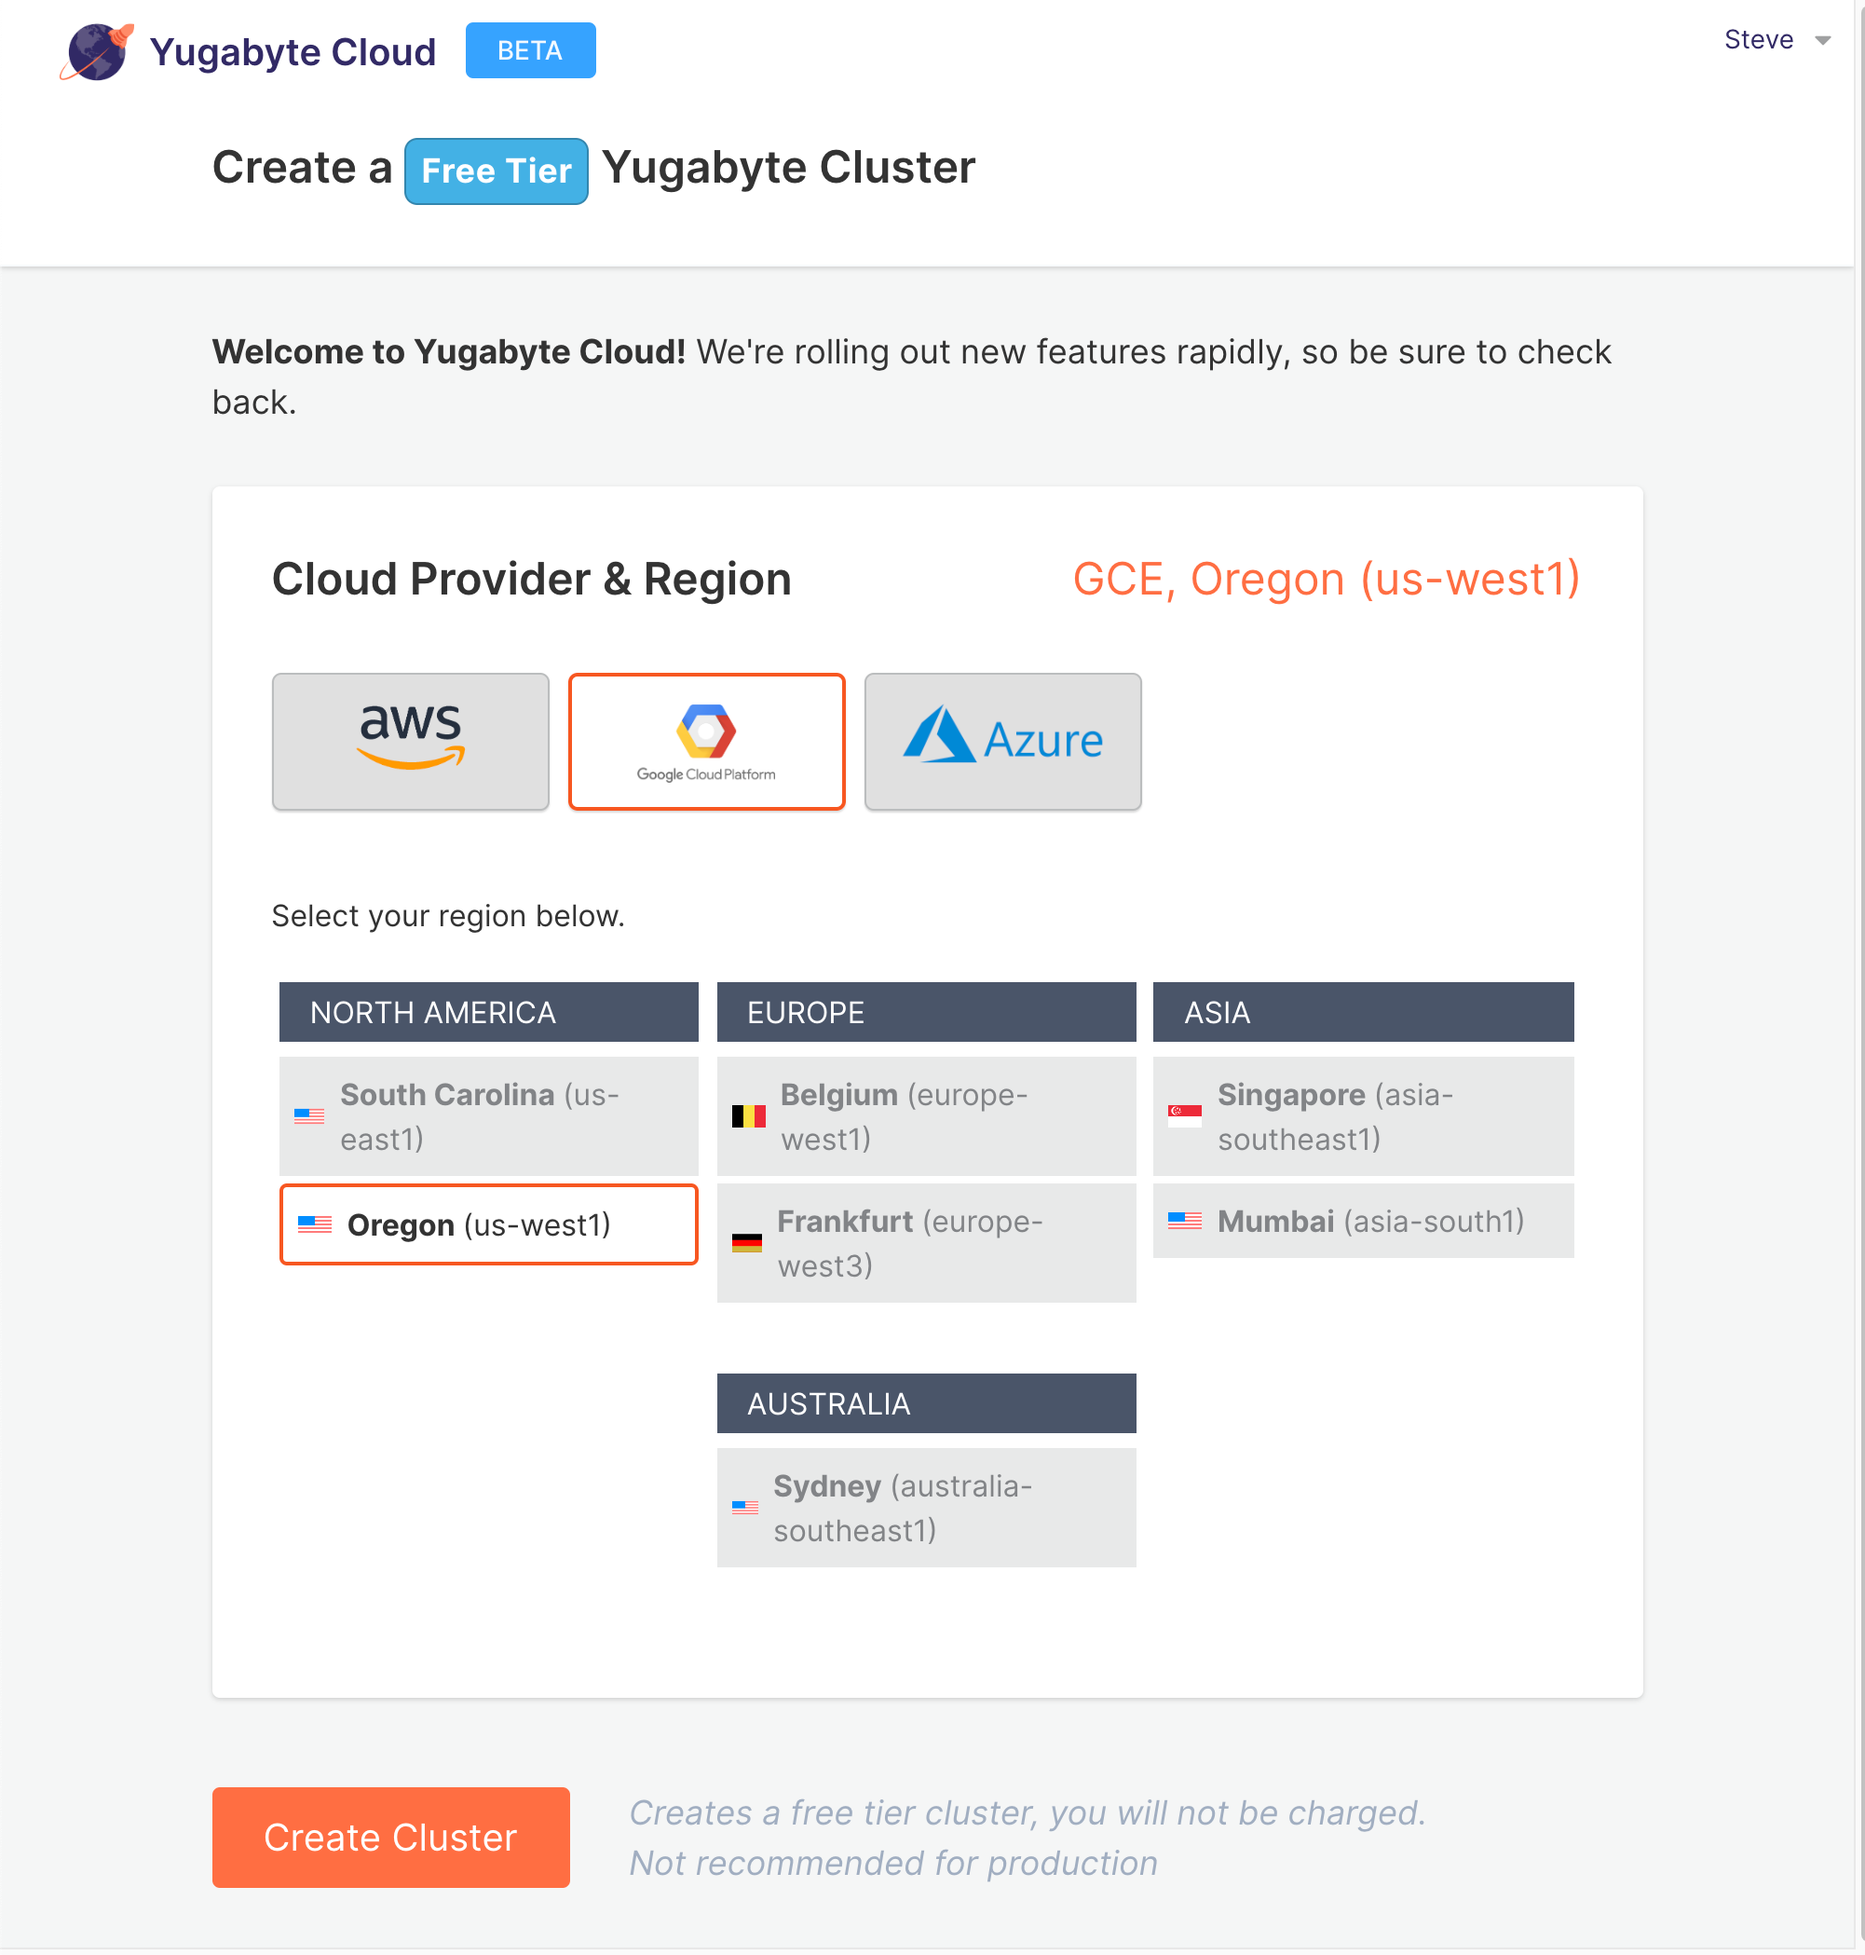
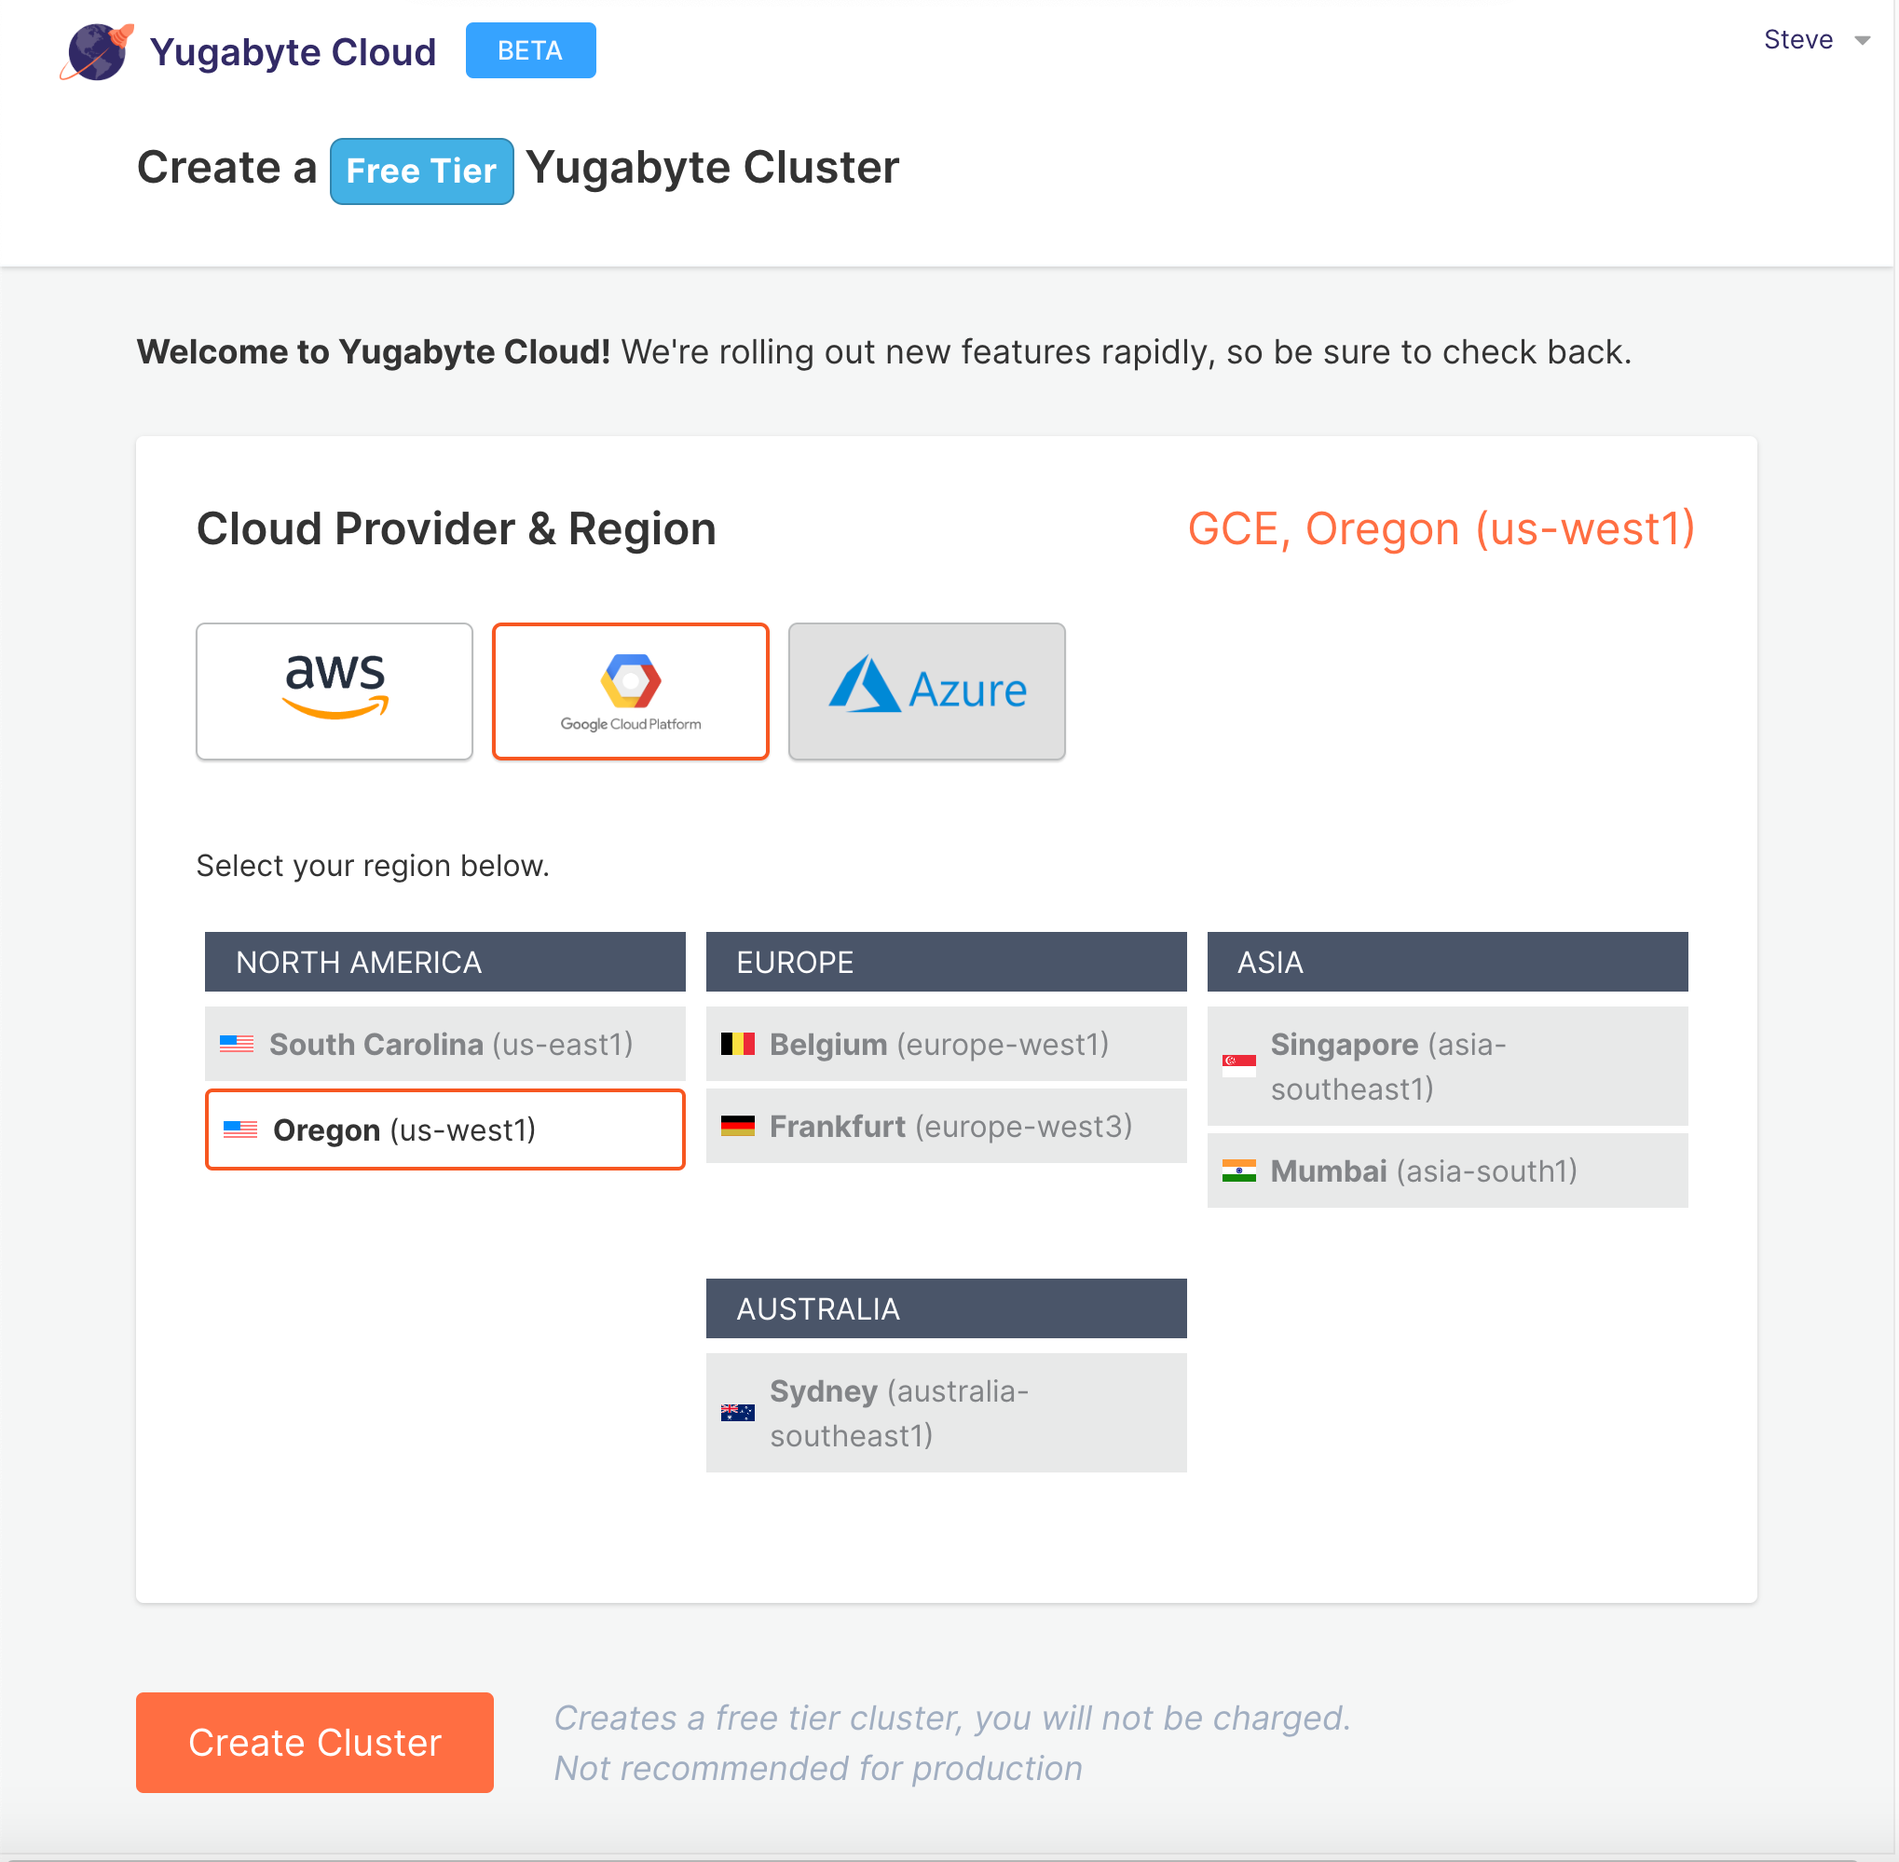
Updte to include AWS (#3793)

diff --git a/docs/content/latest/deploy/yugabyte-cloud/_index.html b/docs/content/latest/deploy/yugabyte-cloud/_index.html
@@ -14,8 +14,8 @@ menu:
 
 Yugabyte Cloud is a fully-managed YugabyteDB-as-a-Service that allows you to run YugabyteDB clusters on
 <a href="https://cloud.google.com/">Google Cloud Platform (GCP)</a>, 
-<a href="https://azure.microsoft.com/">Microsoft Azure</a> (coming soon), and
-<a href="https://aws.amazon.com/">Amazon Web Services (AWS)</a> (coming soon). You can use the Free Tier level to get started with YugabyteDB. Although
+<a href="https://aws.amazon.com/">Amazon Web Services (AWS)</a>, and
+<a href="https://azure.microsoft.com/">Microsoft Azure</a> (coming soon). You can use the Free Tier level to get started with YugabyteDB. Although
 not suitable for production workloads, the Free Tier includes enough resources to start exploring the core features available for developing applications with YugabyteDB.
 
 

diff --git a/docs/content/latest/deploy/yugabyte-cloud/create-clusters.md b/docs/content/latest/deploy/yugabyte-cloud/create-clusters.md
@@ -30,14 +30,14 @@ Follow the steps here to create your first cluster:
     ![Create Free Tier cluster details](/images/deploy/yugabyte-cloud/create-free-tier-cluster-details.png)
 
     {{< note title="Note" >}}
-    
-    For the initial beta release, the options available are limited to::
-    
-    - **Cloud Provider:** Google Cloud Platform
+
+    For the initial beta release, the options available are limited to:
+
+    - **Cloud Provider:** Google Cloud Platform (GCP) or Amazon Web Services (AWS)
     - **Region:** Oregon (`us-west1`)
-    
+
     Additional options for cloud provider and region will become available in future beta updates.
-    
+
     {{< /note >}}
 
 2. Click **Create Cluster**. The **Clusters** page appears with the provisioning of your new cluster in progress. When the **State** changes to `Ready`,
